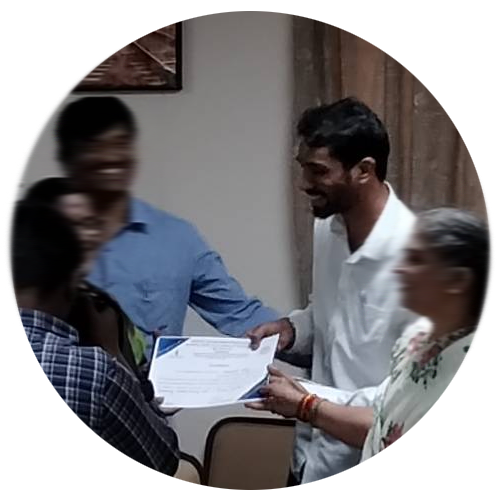
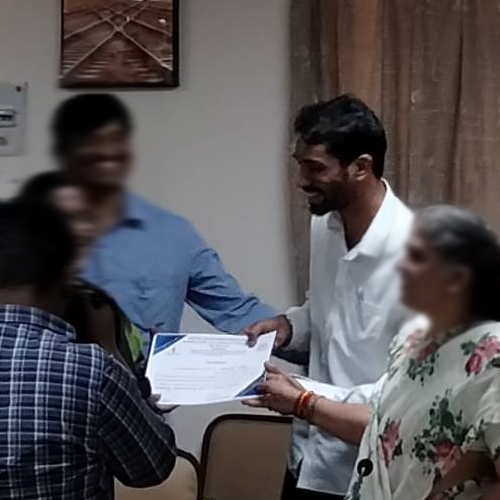
*pic speech5 replaced with uncropped square image

diff --git a/about.html b/about.html
@@ -106,7 +106,7 @@
                 <br>
 
                 <div class="container-fluid">
-                    <img class="img-fluid mx-auto d-block col-sm-5 col-md-5 col-lg-5"
+                    <img class="img-fluid mx-auto d-block col-sm-5 col-md-5 col-lg-5 rounded-circle"
                          src="img/speech5.png">
                 </div>
                 <p class="lh-lg text-center">
